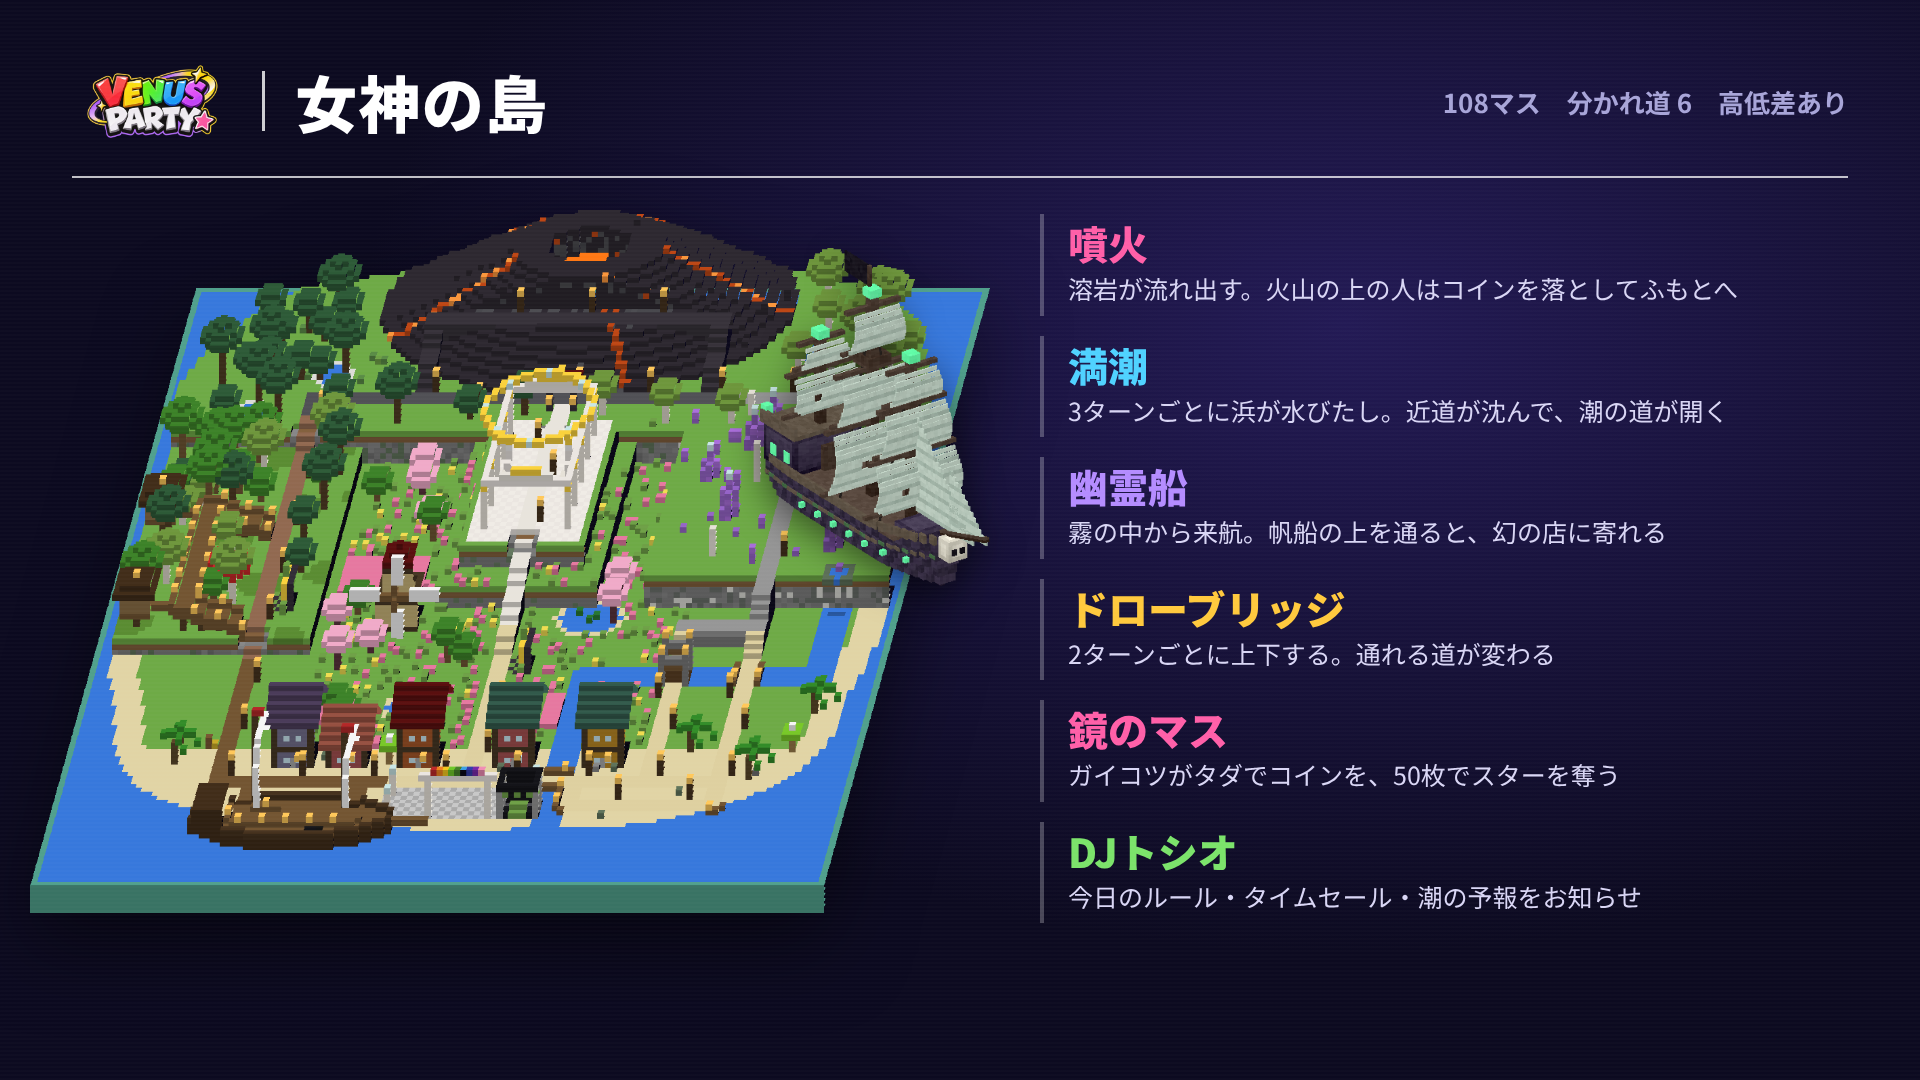
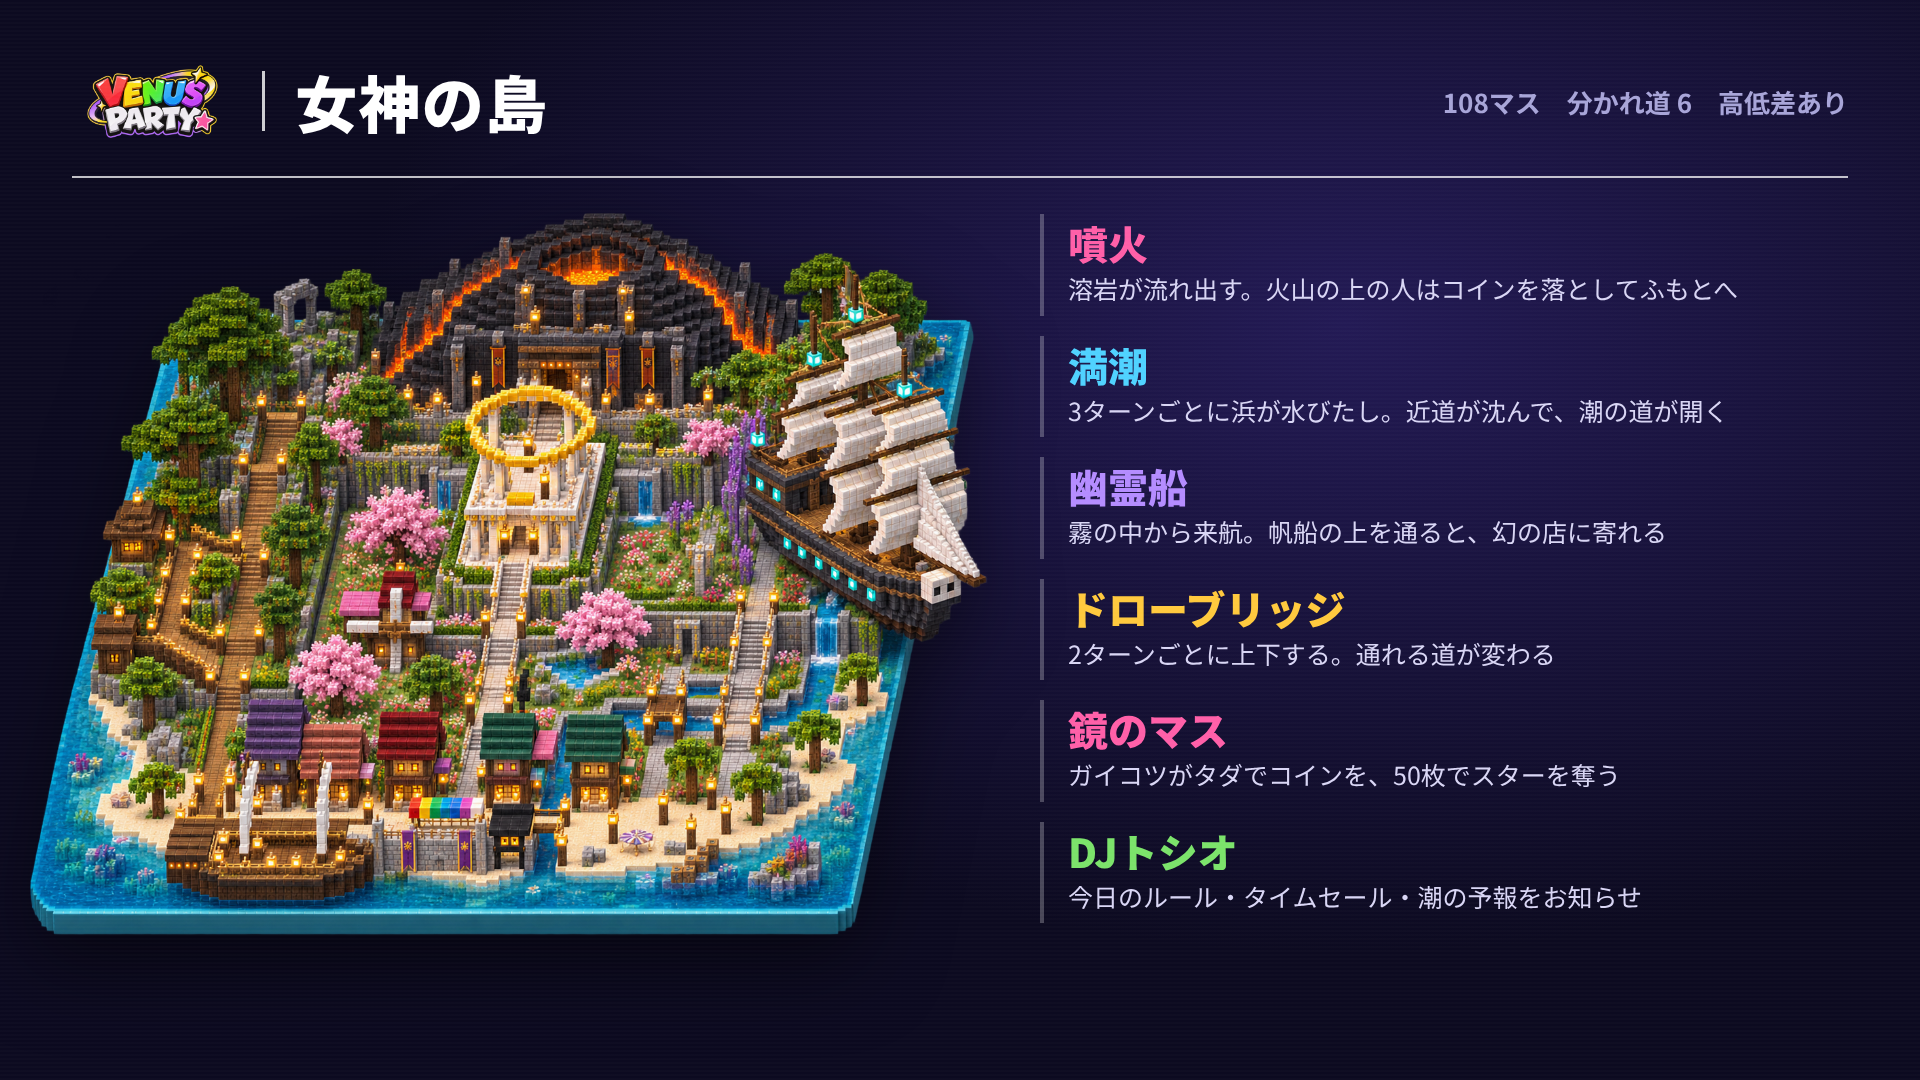
紹介画像: 新しい島の絵、表紙をグラデーションの背景に、DJ は元の向き
Claude-Session: https://claude.ai/code/session_01B2FgibtyYDajcCp47YzWMQ

Changed region(s): [[0.0, 0.1833, 0.5312, 0.8861]]

diff --git a/mpl/promo/01_kv.html b/mpl/promo/01_kv.html
@@ -16,20 +16,21 @@ body{background:radial-gradient(1400px 900px at 70% 30%,#231a55 0%,var(--bg1) 70
 .sky{color:var(--sky)}.pink{color:var(--pink)}.gold{color:var(--gold)}.green{color:var(--green)}.purple{color:var(--purple)}.orange{color:var(--orange)}
 .grain{position:absolute;inset:0;background:repeating-linear-gradient(0deg,rgba(255,255,255,.015) 0 2px,transparent 2px 4px);pointer-events:none}
 
-body{background:#1b2a5e}
-.isl{position:absolute;right:-300px;top:60px;width:1560px;filter:saturate(.95)}
-.panel{position:absolute;inset:0;background:#15112f;clip-path:polygon(0 0,49% 0,37% 100%,0 100%)}
-.edge{position:absolute;inset:0;background:#ff5fa8;clip-path:polygon(49% 0,49.5% 0,37.5% 100%,37% 100%)}
-.dj{position:absolute;right:300px;bottom:-120px;height:980px;image-rendering:pixelated}
-.left{position:absolute;left:110px;top:230px;width:760px}
-.logo{display:block;width:700px;margin-left:-14px}
-.copy{margin-top:34px;font-weight:900;font-size:50px;line-height:1.35;letter-spacing:.02em}
-.foot{margin-top:40px;font-weight:700;font-size:24px;color:#9f9bcc;letter-spacing:.04em}
+body{background:linear-gradient(120deg,#100d2c 0%,#1d1650 38%,#2a2a7a 70%,#2f5aa8 100%)}
+.glow{position:absolute;right:120px;top:120px;width:1100px;height:900px;background:radial-gradient(closest-side,rgba(120,170,255,.35),rgba(120,170,255,0))}
+.isl{position:absolute;right:-40px;top:110px;width:1180px}
+.fade{position:absolute;inset:0;background:linear-gradient(90deg,#100d2c 0%,rgba(16,13,44,.85) 30%,rgba(16,13,44,0) 52%)}
+.dj{position:absolute;left:700px;bottom:-50px;height:780px;image-rendering:pixelated}
+.left{position:absolute;left:110px;top:250px;width:700px}
+.logo{display:block;width:640px;margin-left:-12px}
+.copy{margin-top:32px;font-weight:900;font-size:46px;line-height:1.4;letter-spacing:.02em}
+.foot{margin-top:36px;font-weight:700;font-size:22px;color:#a7a3d6;letter-spacing:.04em}
 .grain{display:none}
 </style></head><body>
+<div class="glow"></div>
 <img class="isl" src="assets/island.png">
-<div class="panel"></div><div class="edge"></div>
-<img class="dj" src="assets/char_dj_r.png">
+<div class="fade"></div>
+<img class="dj" src="assets/char_dj.png">
 <div class="left">
   <img class="logo" src="assets/logo.png">
   <p class="copy">島じゅう巻きこむ、<br>すごろくパーティ。</p>

diff --git a/mpl/promo/03_island.html b/mpl/promo/03_island.html
@@ -23,6 +23,6 @@ body{background:radial-gradient(1400px 900px at 70% 30%,#231a55 0%,var(--bg1) 70
 .ev h2{font-weight:900;font-size:40px;line-height:1.15}.ev p{color:#d9d6f5;font-size:25px;line-height:1.5;margin-top:4px;white-space:nowrap}
 </style></head><body>
 <div class="head"><img src="assets/logo.png"><div class="bar"></div><h1>女神の島</h1><div class="right"><span>108マス</span><span>分かれ道 6</span><span>高低差あり</span></div></div>
-<img class="isl" src="assets/island.png"><img class="gs" src="assets/ghostship.png">
+<img class="isl" src="assets/island.png">
 <div class="evs"><div class="ev"><h2 style="color:var(--pink)">噴火</h2><p>溶岩が流れ出す。火山の上の人はコインを落としてふもとへ</p></div><div class="ev"><h2 style="color:var(--sky)">満潮</h2><p>3ターンごとに浜が水びたし。近道が沈んで、潮の道が開く</p></div><div class="ev"><h2 style="color:var(--purple)">幽霊船</h2><p>霧の中から来航。帆船の上を通ると、幻の店に寄れる</p></div><div class="ev"><h2 style="color:var(--gold)">ドローブリッジ</h2><p>2ターンごとに上下する。通れる道が変わる</p></div><div class="ev"><h2 style="color:var(--pink)">鏡のマス</h2><p>ガイコツがタダでコインを、50枚でスターを奪う</p></div><div class="ev"><h2 style="color:var(--green)">DJトシオ</h2><p>今日のルール・タイムセール・潮の予報をお知らせ</p></div></div>
 <div class="grain"></div></body></html>

diff --git a/tools/mpl_promo_assets.py b/tools/mpl_promo_assets.py
@@ -72,6 +72,9 @@ for k, f in (('star', ic.star), ('coin', ic.coin), ('dice', ic.dice), ('crown', 
 bd = Image.open(os.path.join(ROOT, 'mpl', 'preview_board.png')).convert('RGBA')
 a = np.array(bd); diff = np.abs(a[:, :, :3].astype(int) - np.array([42, 106, 168])).sum(axis=2); a[:, :, 3] = np.where(diff < 30, 0, 255)
 isl = Image.fromarray(a); isl = isl.crop(isl.getbbox()); isl.save(os.path.join(OUT, 'island.png'))
+# 紹介画像の島は描きなおした絵(mpl/assets/island_art.png、背景とうめい)があればそれを使う
+art = os.path.join(ROOT, 'mpl', 'assets', 'island_art.png')
+if os.path.exists(art): im = Image.open(art).convert('RGBA'); im.crop(im.getbbox()).save(os.path.join(OUT, 'island.png'))
 for f in ('preview_ghostship.png', 'preview_mirrorskel.png', 'spaces_preview.png'):
     im = Image.open(os.path.join(ROOT, 'mpl', f)).convert('RGBA'); im.crop(im.getbbox()).save(os.path.join(OUT, f.replace('preview_', '')))
 lg = Image.open(os.path.join(RP, 'textures', 'ui', 'mpl', 'logo_venus.png')).convert('RGBA'); lg.crop(lg.getbbox()).save(os.path.join(OUT, 'logo.png'))
